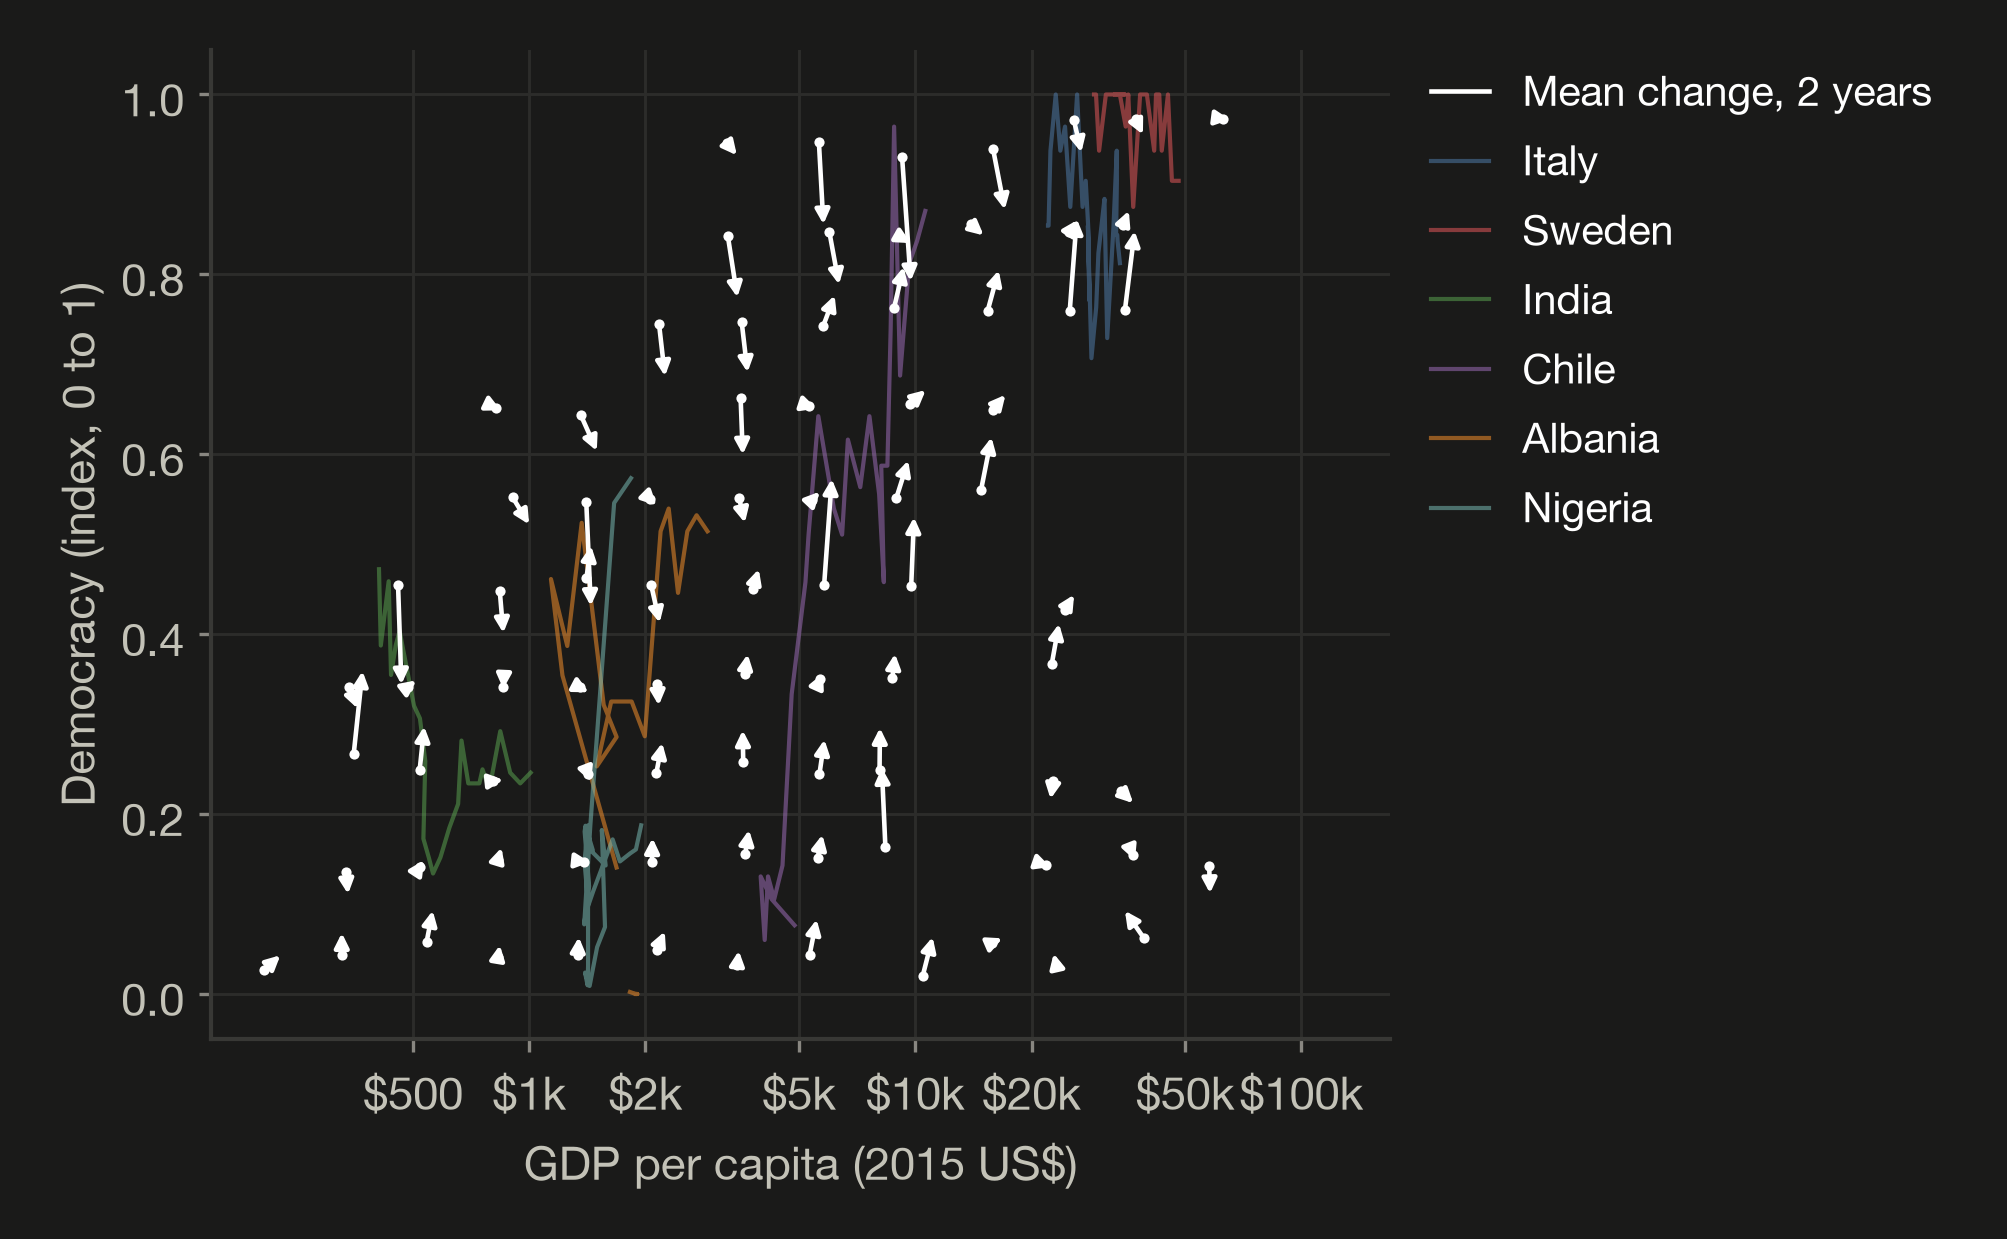
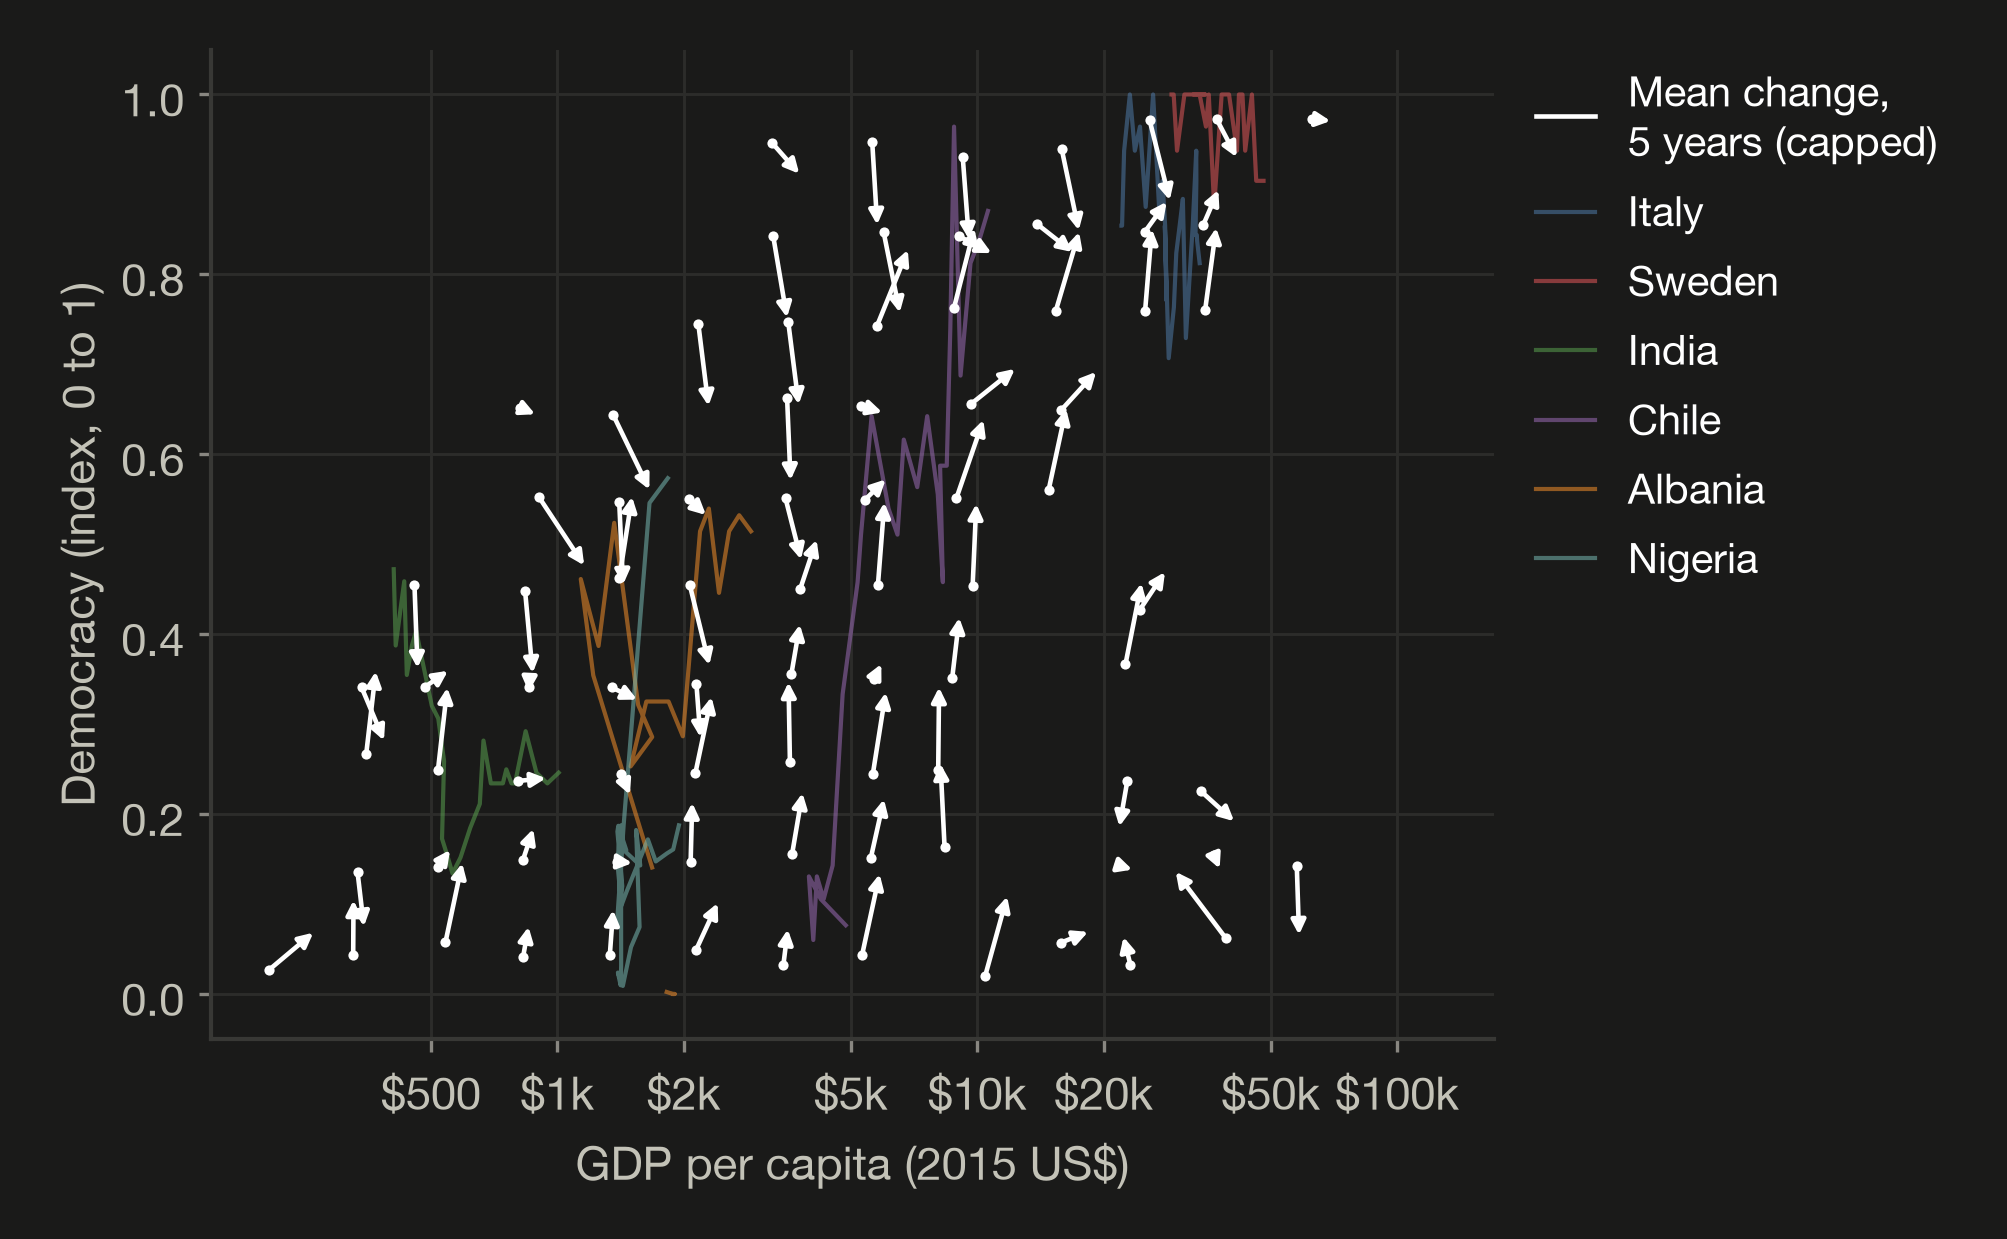
Step 3: Figure 3 arrows longer (5 years) with a cap, direction kept

diff --git a/Code/05_fig_data_phase_portrait.py b/Code/05_fig_data_phase_portrait.py
@@ -23,7 +23,9 @@ from matplotlib.lines import Line2D
 from sds_common import (CM, D_LABEL, G_SCALE, GDP_LABEL, OUT, REP, REP_COLOUR,
                         YEARS, USD_XLIM, dollar_axis, load_panel, save, style)
 
-K = 2          # arrow = average yearly change x K years (90th pct |dD| x K ~ one cell)
+K = 5          # arrow = average yearly change x K years
+CAP_CM = 0.7   # maximum drawn arrow length, cm on the page (~ one grid cell); longer
+               # arrows are shortened to this length with their direction unchanged
 MIN_N = 10     # minimum observed changes for a cell to get an arrow
 G_EDGES = np.arange(0.42, 1.00 + 1e-9, 0.04)   # G = ln(GDP)/12; 0.04 in G = x1.62 in GDP
 D_EDGES = np.linspace(0.0, 1.0, 11)            # 0.1 in democracy
@@ -63,13 +65,6 @@ for theme_name in ("light", "dark"):
         ax.plot(usd(s.G.values), s.D.values, color=REP_COLOUR[iso], lw=1.0,
                 alpha=0.55, label=name, zorder=2)
     arrow_col = t.text_primary
-    for r in shown.itertuples():
-        x0, y0 = usd(r.G), r.D
-        x1, y1 = usd(r.G + K * r.dG), r.D + K * r.dD
-        ax.annotate("", xy=(x1, y1), xytext=(x0, y0), zorder=4,
-                    arrowprops=dict(arrowstyle="-|>", color=arrow_col, lw=1.1,
-                                    mutation_scale=7, shrinkA=0, shrinkB=0))
-        ax.scatter([x0], [y0], s=6, color=arrow_col, zorder=5, lw=0)
     dollar_axis(ax, "x")
     ax.set_xlim(*USD_XLIM)
     ax.set_ylim(-0.05, 1.05)
@@ -77,9 +72,35 @@ for theme_name in ("light", "dark"):
     ax.set_ylabel(D_LABEL)
     handles, labels = ax.get_legend_handles_labels()
     handles = [Line2D([0], [0], color=arrow_col, lw=1.1)] + handles
-    labels = [f"Mean change, {K} years"] + labels
+    labels = [f"Mean change,\n{K} years (capped)"] + labels
     ax.legend(handles, labels, loc="upper left", bbox_to_anchor=(1.02, 1.0),
               frameon=False, handlelength=1.4, borderaxespad=0.0)
     fig.tight_layout()
+
+    # Arrows are drawn after layout so the cap can be applied in cm on the page.
+    # The x axis is linear in G (log dollars), so scaling (dG, dD) by one factor
+    # leaves the direction on the page unchanged.
+    bb = ax.get_window_extent().transformed(fig.dpi_scale_trans.inverted())
+    w_cm, h_cm = bb.width / CM, bb.height / CM
+    gx0, gx1 = np.log(USD_XLIM) / G_SCALE
+    (dy0, dy1) = ax.get_ylim()
+    n_capped = 0
+    for r in shown.itertuples():
+        vx_cm = K * r.dG / (gx1 - gx0) * w_cm
+        vy_cm = K * r.dD / (dy1 - dy0) * h_cm
+        length = np.hypot(vx_cm, vy_cm)
+        f = min(1.0, CAP_CM / length) if length > 0 else 1.0
+        n_capped += f < 1.0
+        x0, y0 = usd(r.G), r.D
+        x1, y1 = usd(r.G + f * K * r.dG), r.D + f * K * r.dD
+        ax.annotate("", xy=(x1, y1), xytext=(x0, y0), zorder=4,
+                    arrowprops=dict(arrowstyle="-|>", color=arrow_col, lw=1.1,
+                                    mutation_scale=7, shrinkA=0, shrinkB=0))
+        ax.scatter([x0], [y0], s=6, color=arrow_col, zorder=5, lw=0)
+    if theme_name == "light":
+        with open(OUT / "05_phase_portrait_counts.txt", "a") as fh:
+            fh.write(f"arrow cap: {CAP_CM} cm on the page; arrows shortened to the cap: "
+                     f"{int(n_capped)} of {len(shown)}\n")
+        print(f"capped: {int(n_capped)} of {len(shown)}")
     path = save(fig, "fig3_data_phase_portrait", theme_name)
     print(f"figure: {path}")

diff --git a/Appendix.md b/Appendix.md
@@ -176,6 +176,7 @@ Made by `Code/05_fig_data_phase_portrait.py`. Counts from `Code/outputs/05_phase
   - Each arrow starts at the mean $(G, D)$ of the cell's country-years and points along their mean $(\Delta G, \Delta D)$ times $K$.
   - Both components are scaled by the same $K$ in model units, so directions are true on these axes. On the dollar axis the horizontal length is proportional GDP growth.
 - **Choices after the first render.** The first draft used $K = 5$ years and at least 5 changes per cell. Arrows ran through neighbouring cells, and cells with few changes gave erratic averages (for example near \$100k). The cell-average $|\Delta D|$ has median 0.013 and 90th percentile 0.044. With $K = 2$, the 90th percentile arrow is about one cell high (0.09). Raising the minimum from 5 to 10 changes per cell drops 15 cells: from 98 to 83 arrows, and from 3,397 to 3,289 changes represented. Superseded: $K = 5$, at least 5 changes.
+- **Longer, capped arrows (at the user's request).** "The arrows should be longer, but with a max on them. So we can better see the direction." Arrows are now drawn at $K = 5$ years. Any arrow longer than 0.7 cm on the page (about one cell, `CAP_CM`) is shortened to 0.7 cm by one factor applied to both components. The horizontal axis is linear in $G$, so the direction on the page is unchanged. 33 of the 83 arrows are shortened. The cap is measured after layout, in centimetres on the page, so the count depends on the axes' size. Widening the legend label to "(capped)" first narrowed the axes, changing the count from 31 to 29 and making the \$50k and \$100k ticks collide. The label was split over two lines to restore the width (33 capped). Superseded: $K = 2$ with no cap.
 - **Shared axis range.** Figures 2 and 3 now share a fixed GDP range, \$150 to \$170,000 (`USD_XLIM` in `sds_common.py`), so the two can be laid over each other. The first draft of Figure 3 was cut at the grid edges, and with its longer legend label the \$50k and \$100k ticks collided.
 - **Not used in the report.** Over all changes, the mean yearly change is 0.0023 in democracy and 0.00141 in $G$, which is 1.70% growth in GDP per capita a year.
 
@@ -201,6 +202,7 @@ Made by `Code/05_fig_data_phase_portrait.py`. Counts from `Code/outputs/05_phase
 | 14 | Step 3. A contract rule says every variable is shown in interpretable units, so we see GDP in money. Figures 1 and 2 were redrawn with GDP in constant 2015 US dollars on a log axis. The captions and the `Results` paragraph were updated, and the `Introduction` now gives GDP's range in dollars (about \$160 to \$140,000 per person, from `panel.csv`: 164.7 to 140,615). | `instructions.md`; `Code/sds_common.py`; Figures 1–2; `Report.md` | `Code/02_build_panel.py`, `Code/03_fig_trajectories_time.py`, `Code/04_fig_trajectories_plane.py`; `Report.md` `Results` |
 | 15 | Step 3. At the user's request, dropped the mean from Figures 1 and 2: "We don't need it". A contract change locks the figure format: no mean, the user's style in the workspace themes, dollar log axes, axis labels with units, the legend off the data. Figures 1 and 2 and their scripts are the reference. It also adds "always use units when available". Figures redrawn; the `Results` paragraph and captions updated. | `instructions.md`; Figures 1–2; `Report.md` |
 | 16 | Step 3. Made Figure 3, the data phase portrait: cell-average yearly changes on a 14 × 10 grid, arrows scaled to 2 years, cells with at least 10 changes (83 cells, 3,289 of 3,423 changes). It was redrawn once after inspection (first draft: 5 years, at least 5 changes). Figures 2 and 3 now share a fixed GDP range. Added to `Results` with a reading paragraph and caption. | `Code/05_fig_data_phase_portrait.py`; `Report.md` `Results` |
+| 17 | Step 3. At the user's request, made the arrows in Figure 3 longer, with a cap: 5 years, capped at 0.7 cm on the page with direction kept; 33 of 83 capped. Caption and reading paragraph updated. | `Code/05_fig_data_phase_portrait.py`; `Report.md` |
 
 ## Code Summary
 
@@ -211,7 +213,7 @@ Made by `Code/05_fig_data_phase_portrait.py`. Counts from `Code/outputs/05_phase
 | `Code/02_build_panel.py` | Applies the step 1 decisions and builds the panel: countries only, −99 set to missing, join on ISO3, $G = \ln(\text{GDP})/12$, 1981–2006, consecutive-year changes, and the balanced-country flag. Fits nothing. Run with `cd Code && uv run python 02_build_panel.py`. | Both source files, as above | `Code/outputs/panel.csv` (gitignored: row-level QoG data); `Code/outputs/02_panel_counts.txt` |
 | `Code/03_fig_trajectories_time.py` | Figure 1: democracy and GDP per capita (dollars, log axis) against year for the six countries. Light and dark. | `Code/outputs/panel.csv` | `Code/outputs/figures/fig1_trajectories_time.png`, `…/dark/…` |
 | `Code/04_fig_trajectories_plane.py` | Figure 2: the six countries' paths in the GDP–democracy plane (dollars, log axis), over all countries in 2006. Light and dark. | `Code/outputs/panel.csv` | `Code/outputs/figures/fig2_trajectories_plane.png`, `…/dark/…` |
-| `Code/05_fig_data_phase_portrait.py` | Figure 3: cell-average observed yearly changes as arrows on the GDP–democracy plane, with the six countries' paths faint. Parameters: `K = 2` (arrow years), `MIN_N = 10` (minimum changes per cell), $G$ bins of 0.04 from 0.42 to 1.00, $D$ bins of 0.1. | `Code/outputs/panel.csv` | `Code/outputs/figures/fig3_data_phase_portrait.png`, `…/dark/…`; `Code/outputs/05_phase_cells.csv`; `Code/outputs/05_phase_portrait_counts.txt` |
+| `Code/05_fig_data_phase_portrait.py` | Figure 3: cell-average observed yearly changes as arrows on the GDP–democracy plane, with the six countries' paths faint. Parameters: `K = 5` (arrow years), `CAP_CM = 0.7` (maximum arrow length on the page, direction kept), `MIN_N = 10` (minimum changes per cell), $G$ bins of 0.04 from 0.42 to 1.00, $D$ bins of 0.1. | `Code/outputs/panel.csv` | `Code/outputs/figures/fig3_data_phase_portrait.png`, `…/dark/…`; `Code/outputs/05_phase_cells.csv`; `Code/outputs/05_phase_portrait_counts.txt` |
 
 Run order: `01_describe_data.py` (description only), then `02_build_panel.py`, then the figure scripts in any order. The scripts in `Code/` import `sds_common.py` from their own directory, so they are run without Python's isolated mode (`-I`). No downloaded file is on the import path.
 

diff --git a/Report.md b/Report.md
@@ -34,11 +34,11 @@ Figures 1 and 2 show the same data in two ways. Figure 1 plots each variable aga
 
 <small><b>Figure 2.</b> Democracy, <em>D</em>, against GDP per capita in constant 2015 US dollars on a logarithmic scale. Grey points are the 181 countries with both variables in 2006. Coloured lines are the paths of the six countries in Figure 1 from 1981 to 2006, with a filled circle at 1981.</small>
 
-Figure 3 summarises all 3,423 observed yearly changes on the same axes as Figure 2. The plane is divided into a grid of cells, and each arrow stands for the country-years in one cell. It starts at their average position and points along their average yearly change, drawn over two years so that it is long enough to see. An arrow pointing up is a cell in which democracy rose on average. An arrow pointing right is a cell in which GDP per capita grew, and because the GDP axis is logarithmic, the arrow's horizontal length is proportional growth.
+Figure 3 summarises all 3,423 observed yearly changes on the same axes as Figure 2. The plane is divided into a grid of cells, and each arrow stands for the country-years in one cell. It starts at their average position and points along their average yearly change, drawn over five years so that its direction is easy to see. The longest arrows are shortened to a maximum length, about one cell, with their direction unchanged. An arrow pointing up is a cell in which democracy rose on average. An arrow pointing right is a cell in which GDP per capita grew, and because the GDP axis is logarithmic, the arrow's horizontal length is proportional growth.
 
 ![Figure 3](Code/outputs/figures/fig3_data_phase_portrait.png)
 
-<small><b>Figure 3.</b> Observed yearly changes in democracy and GDP per capita (constant 2015 US dollars, logarithmic scale), averaged within cells of a grid. Each cell spans a factor of about 1.6 in GDP per capita and 0.1 in democracy. Each arrow starts at the average position of the country-years in its cell, marked by a dot, and shows their average yearly change multiplied by two. Cells with fewer than 10 yearly changes have no arrow; the 83 cells with arrows hold 3,289 of the 3,423 changes. Faint lines are the paths of the six countries in Figures 1 and 2.</small>
+<small><b>Figure 3.</b> Observed yearly changes in democracy and GDP per capita (constant 2015 US dollars, logarithmic scale), averaged within cells of a grid. Each cell spans a factor of about 1.6 in GDP per capita and 0.1 in democracy. Each arrow starts at the average position of the country-years in its cell, marked by a dot, and points along their average yearly change. Arrows are drawn at five times the yearly change, and the 33 longest are shortened to 0.7 cm, about one cell, with their direction unchanged; the shortening is equal for both components, so directions are as observed. Cells with fewer than 10 yearly changes have no arrow; the 83 cells with arrows hold 3,289 of the 3,423 changes. Faint lines are the paths of the six countries in Figures 1 and 2.</small>
 
 ## Discussion
 
